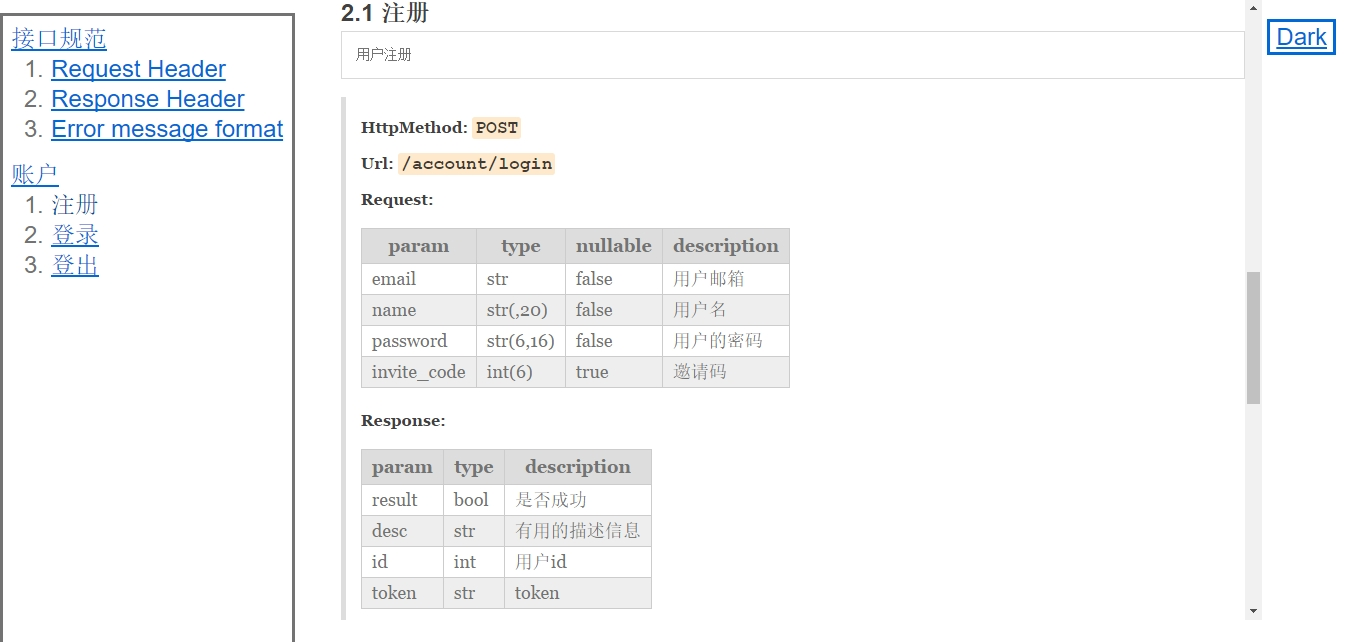
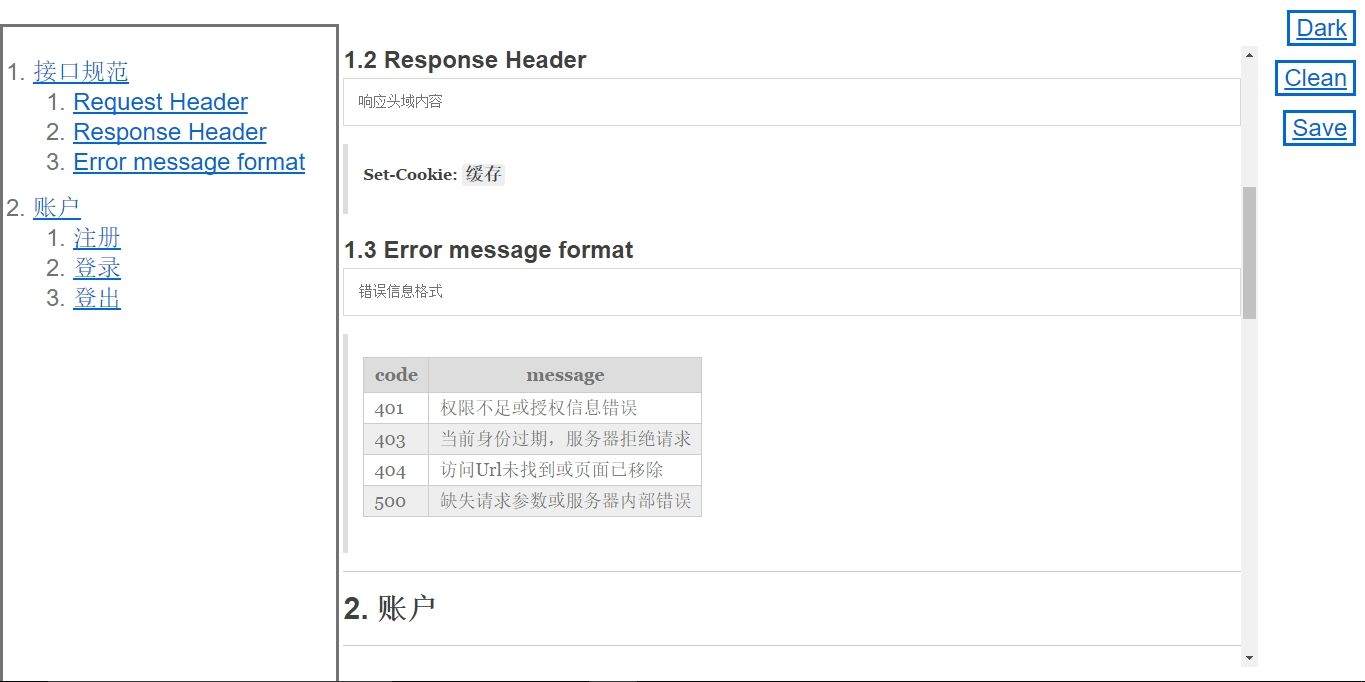
微调，更新预览图

Changed region(s): [[0.0, 0.0, 1.0, 1.0], [0.9333, 0.0, 0.9956, 0.2181], [0.9022, 0.2804, 0.9333, 0.6231]]

diff --git a/static/js/marked_with_toc.js b/static/js/marked_with_toc.js
@@ -4,7 +4,7 @@ function setCatalogFold() {
     if (!catalogOl || !contentDiv) return false;
     
     catalogOl.onmouseover = function () { fold(20, 1); }
-    catalogOl.onmouseout = function () { fold(3, -1); }
+    catalogOl.onmouseout = function () { fold(1, -1); }
     
     var timer = null;
     function fold(target, speed) {
@@ -27,7 +27,7 @@ window.onload = function () {
     if (oldOnload) oldOnload();
     
     document.body.style.maxWidth = document.documentElement.clientWidth + "px";
-    document.body.style.width = document.documentElement.clientWidth - 50 + "px";
+    document.body.style.width = document.documentElement.clientWidth - 60 + "px";
     document.body.style.paddingTop = "0px";
     document.body.style.marginTop = "10px";
     
@@ -43,7 +43,7 @@ function markedWithToc(content) {
     catalogOl.style.fontSize = "24px";
     catalogOl.style.border = "3px solid";
     catalogOl.style.padding = "30px";
-    catalogOl.style.width = "3%";
+    catalogOl.style.width = "1%";
     catalogOl.style.height = document.documentElement.clientHeight - 60 + "px";
     catalogOl.style.overflowY = "auto";
     document.body.appendChild(catalogOl);
@@ -52,7 +52,7 @@ function markedWithToc(content) {
     contentDiv.innerHTML = marked(content);
     contentDiv.style.cssFloat = "right";
     contentDiv.style.marginRight = "6%";
-    contentDiv.style.width = "87%";
+    contentDiv.style.width = "89%";
     contentDiv.style.height = document.documentElement.clientHeight - 60 + "px";
     contentDiv.style.overflowY = "auto";
     document.body.appendChild(contentDiv);
